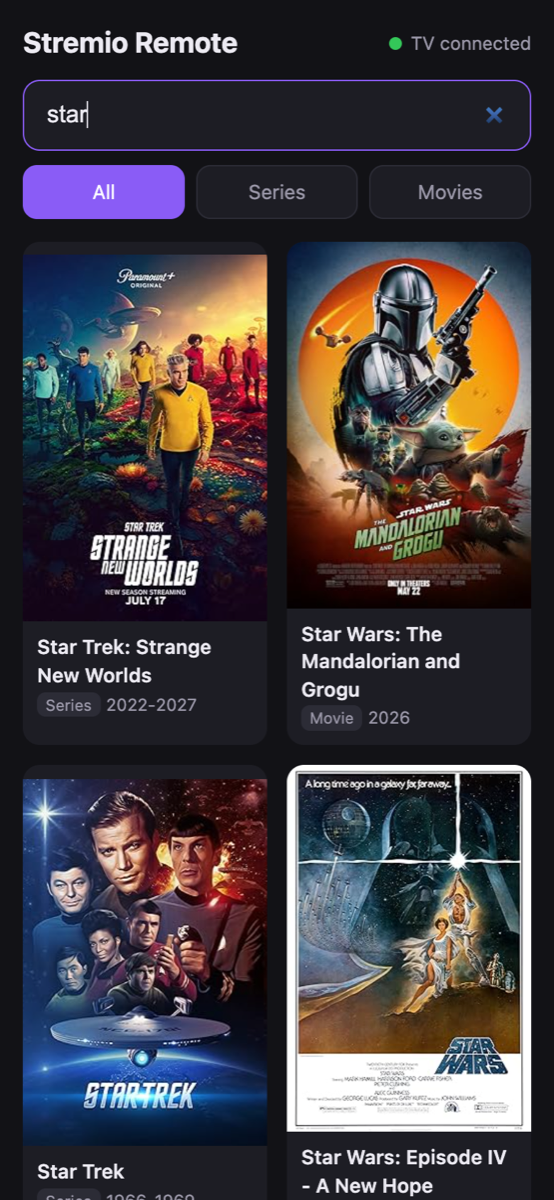
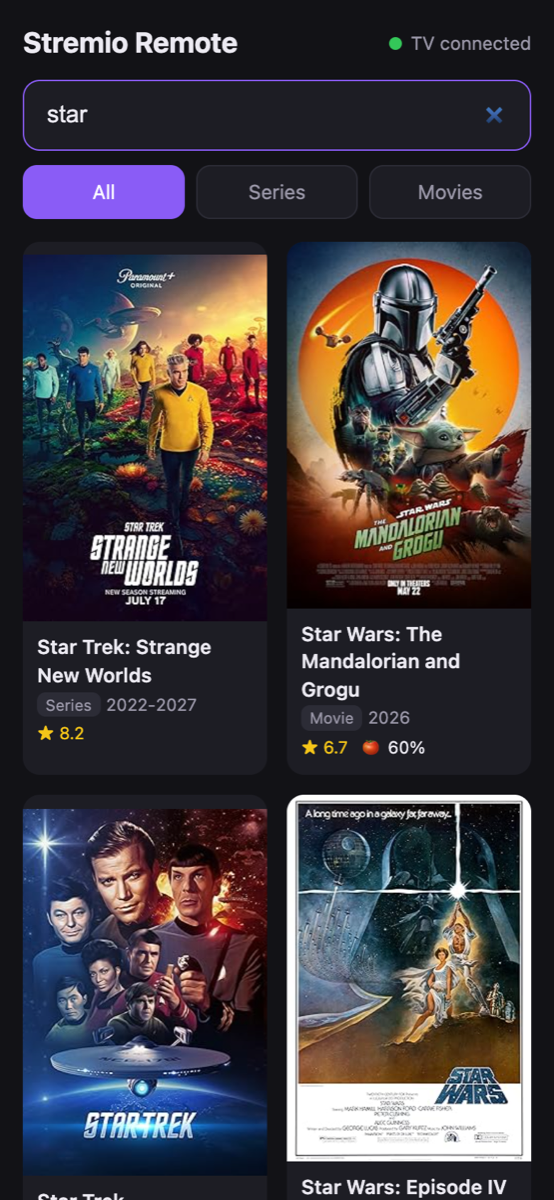
Show IMDb and Rotten Tomatoes scores on search results
IMDb score comes from Cinemeta's meta endpoint, so it works with no
API key. Rotten Tomatoes comes from OMDb when OMDB_API_KEY is set.
Scores load after the results render and are cached for 24 hours.

Changed region(s): [[0.0307, 0.6167, 0.9819, 1.0], [0.0614, 0.5858, 0.1534, 0.6167]]

diff --git a/app/static/index.html b/app/static/index.html
@@ -46,6 +46,8 @@
   .card .meta { padding: 8px 10px 10px; }
   .card .name { font-weight: 600; font-size: 14px; }
   .card .sub { font-size: 12px; color: var(--muted); margin-top: 2px; }
+  .ratings { font-size: 12px; color: var(--text); margin-top: 4px; display: flex; gap: 10px; min-height: 17px; }
+  .ratings .imdb { color: #f5c518; }
   .badge { display: inline-block; font-size: 11px; padding: 1px 6px; border-radius: 6px; background: #2c2c36; margin-right: 4px; }
   .empty { color: var(--muted); text-align: center; padding: 40px 0; }
   .toast {
@@ -78,6 +80,34 @@
 <script>
   const $ = (id) => document.getElementById(id);
   let timer, seq = 0, lastItems = [], filter = "all";
+  const ratings = {};
+
+  function fillRatings(el, r) {
+    el.textContent = "";
+    if (!r) return;
+    if (r.imdb) {
+      const s = document.createElement("span");
+      s.className = "imdb";
+      s.textContent = "★ " + r.imdb;
+      el.append(s);
+    }
+    if (r.rt) {
+      const s = document.createElement("span");
+      s.textContent = "🍅 " + r.rt;
+      el.append(s);
+    }
+  }
+
+  async function loadRatings(items, mine) {
+    const missing = items.filter((it) => !(it.id in ratings));
+    if (!missing.length) return;
+    try {
+      const qs = missing.map((it) => it.type + ":" + it.id).join(",");
+      Object.assign(ratings, await (await fetch("/api/ratings?items=" + encodeURIComponent(qs))).json());
+    } catch { return; }
+    if (mine !== seq) return;
+    for (const el of document.querySelectorAll(".ratings")) fillRatings(el, ratings[el.dataset.id]);
+  }
 
   function toast(msg, err = false) {
     const t = $("toast");
@@ -121,7 +151,11 @@
       badge.className = "badge";
       badge.textContent = it.type === "series" ? "Series" : "Movie";
       sub.append(badge, it.year);
-      meta.append(name, sub);
+      const rating = document.createElement("div");
+      rating.className = "ratings";
+      rating.dataset.id = it.id;
+      fillRatings(rating, ratings[it.id]);
+      meta.append(name, sub, rating);
       card.append(img, meta);
       card.onclick = () => openOnTv(it);
       grid.append(card);
@@ -136,6 +170,7 @@
       if (mine !== seq) return;
       $("empty").textContent = "No results";
       render(items);
+      loadRatings(items, mine);
     } catch {
       if (mine === seq) toast("Search failed", true);
     }

diff --git a/app/main.py b/app/main.py
@@ -3,6 +3,7 @@
 import asyncio
 import os
 import re
+import time
 from pathlib import Path
 from urllib.parse import quote
 
@@ -16,13 +17,19 @@ if not FIRETV_HOST:
     raise SystemExit("FIRETV_HOST is not set (example: FIRETV_HOST=192.168.1.50:5555)")
 if ":" not in FIRETV_HOST:
     FIRETV_HOST += ":5555"
+OMDB_API_KEY = os.environ.get("OMDB_API_KEY", "")
 CINEMETA = "https://v3-cinemeta.strem.io/catalog/{type}/top/search={q}.json"
+CINEMETA_META = "https://v3-cinemeta.strem.io/meta/{type}/{id}.json"
+OMDB = "https://www.omdbapi.com/"
+RATINGS_TTL = 24 * 3600
 ADB_TIMEOUT = 10
 STATIC = Path(__file__).parent / "static"
 IMDB_ID = re.compile(r"^tt\d+$")
 
 app = FastAPI(title="Stremio Remote")
 adb_lock = asyncio.Lock()
+ratings_cache: dict[str, tuple[float, dict]] = {}
+ratings_limit = asyncio.Semaphore(8)
 
 
 async def adb(*args: str) -> tuple[int, str]:
@@ -90,6 +97,48 @@ async def search(q: str):
         for m in merged
         if IMDB_ID.match(m.get("id", ""))
     ][:30]
+
+
+async def fetch_ratings(client: httpx.AsyncClient, type_: str, imdb_id: str) -> dict:
+    """IMDb score from Cinemeta, Rotten Tomatoes from OMDb when a key is set."""
+    cached = ratings_cache.get(imdb_id)
+    if cached and time.monotonic() - cached[0] < RATINGS_TTL:
+        return cached[1]
+    result = {"imdb": None, "rt": None}
+    async with ratings_limit:
+        try:
+            r = await client.get(CINEMETA_META.format(type=type_, id=imdb_id))
+            if r.status_code == 200:
+                result["imdb"] = (r.json().get("meta") or {}).get("imdbRating") or None
+        except httpx.HTTPError:
+            pass
+        if OMDB_API_KEY:
+            try:
+                r = await client.get(OMDB, params={"i": imdb_id, "apikey": OMDB_API_KEY})
+                data = r.json() if r.status_code == 200 else {}
+                if data.get("Response") == "True":
+                    for rating in data.get("Ratings", []):
+                        if rating.get("Source") == "Rotten Tomatoes":
+                            result["rt"] = rating.get("Value")
+                    if not result["imdb"] and data.get("imdbRating") not in (None, "N/A"):
+                        result["imdb"] = data["imdbRating"]
+            except (httpx.HTTPError, ValueError):
+                pass
+    ratings_cache[imdb_id] = (time.monotonic(), result)
+    return result
+
+
+@app.get("/api/ratings")
+async def ratings(items: str):
+    """items: comma-separated type:id pairs, e.g. series:tt0903747,movie:tt1160419"""
+    pairs = []
+    for item in items.split(",")[:30]:
+        type_, _, imdb_id = item.partition(":")
+        if type_ in ("series", "movie") and IMDB_ID.match(imdb_id):
+            pairs.append((type_, imdb_id))
+    async with httpx.AsyncClient(timeout=8) as client:
+        results = await asyncio.gather(*(fetch_ratings(client, t, i) for t, i in pairs))
+    return {imdb_id: r for (_, imdb_id), r in zip(pairs, results)}
 
 
 class OpenRequest(BaseModel):

diff --git a/README.md b/README.md
@@ -9,11 +9,12 @@ Typing titles with a TV remote is slow. Stremio Remote is a small web page you r
 ## Features
 
 - Search as you type, with posters, year and a Series or Movie label
+- IMDb score on every result, plus Rotten Tomatoes when an [OMDb API key](#rotten-tomatoes-scores) is set
 - Filter results: All / Series / Movies
 - One tap opens the title's page in Stremio on the TV, and wakes the screen from standby
 - Status dot showing whether the TV is reachable
 - Made for phones: no app to install, and it can be added to your home screen
-- No accounts or API keys: search uses Stremio's own catalog (Cinemeta)
+- No accounts needed: search and IMDb scores come from Stremio's own catalog (Cinemeta)
 
 ## How it works
 
@@ -55,6 +56,7 @@ services:
       - "8080:8080"
     environment:
       - FIRETV_HOST=192.168.1.50:5555   # your TV's IP
+      - OMDB_API_KEY=                   # optional, for Rotten Tomatoes scores
     volumes:
       - adb-keys:/root/.android
 
@@ -72,6 +74,7 @@ docker compose up -d
 docker run -d --name stremio-remote --restart unless-stopped \
   -p 8080:8080 \
   -e FIRETV_HOST=192.168.1.50:5555 \
+  -e OMDB_API_KEY= \
   -v stremio-remote-adb:/root/.android \
   ghcr.io/kh3dr0n/stremio-remote:latest
 ```
@@ -115,6 +118,16 @@ To use it like an app on your phone, add it to your home screen: **Share → Add
 | Variable | Required | Description |
 |---|---|---|
 | `FIRETV_HOST` | yes | The TV's address, `IP` or `IP:port` (port defaults to `5555`) |
+| `OMDB_API_KEY` | no | [OMDb](https://www.omdbapi.com/apikey.aspx) key, to show Rotten Tomatoes scores |
+
+### Rotten Tomatoes scores
+
+IMDb scores work out of the box. Rotten Tomatoes scores come from [OMDb](https://www.omdbapi.com/), which needs an API key:
+
+1. Request a free key at <https://www.omdbapi.com/apikey.aspx>. It arrives by email, and you need to click the activation link in it.
+2. Set it as `OMDB_API_KEY` and restart the container.
+
+The free key allows 1,000 requests a day. Scores are cached for 24 hours, so that is plenty for personal use. OMDb mostly has Rotten Tomatoes scores for movies, so many series show only the IMDb score.
 
 ## API
 
@@ -122,6 +135,7 @@ To use it like an app on your phone, add it to your home screen: **Share → Add
 |---|---|---|
 | `GET` | `/api/search?q=<title>` | Search series and movies |
 | `POST` | `/api/open` | Body `{"id": "tt0903747", "type": "series"}`, where `type` is `series` or `movie` |
+| `GET` | `/api/ratings?items=series:tt0903747,movie:tt1160419` | IMDb and Rotten Tomatoes scores, up to 30 titles |
 | `GET` | `/api/status` | `{"connected": true, "state": "device", "host": "…"}` |
 
 You can use `/api/open` from Home Assistant, Shortcuts or scripts:
